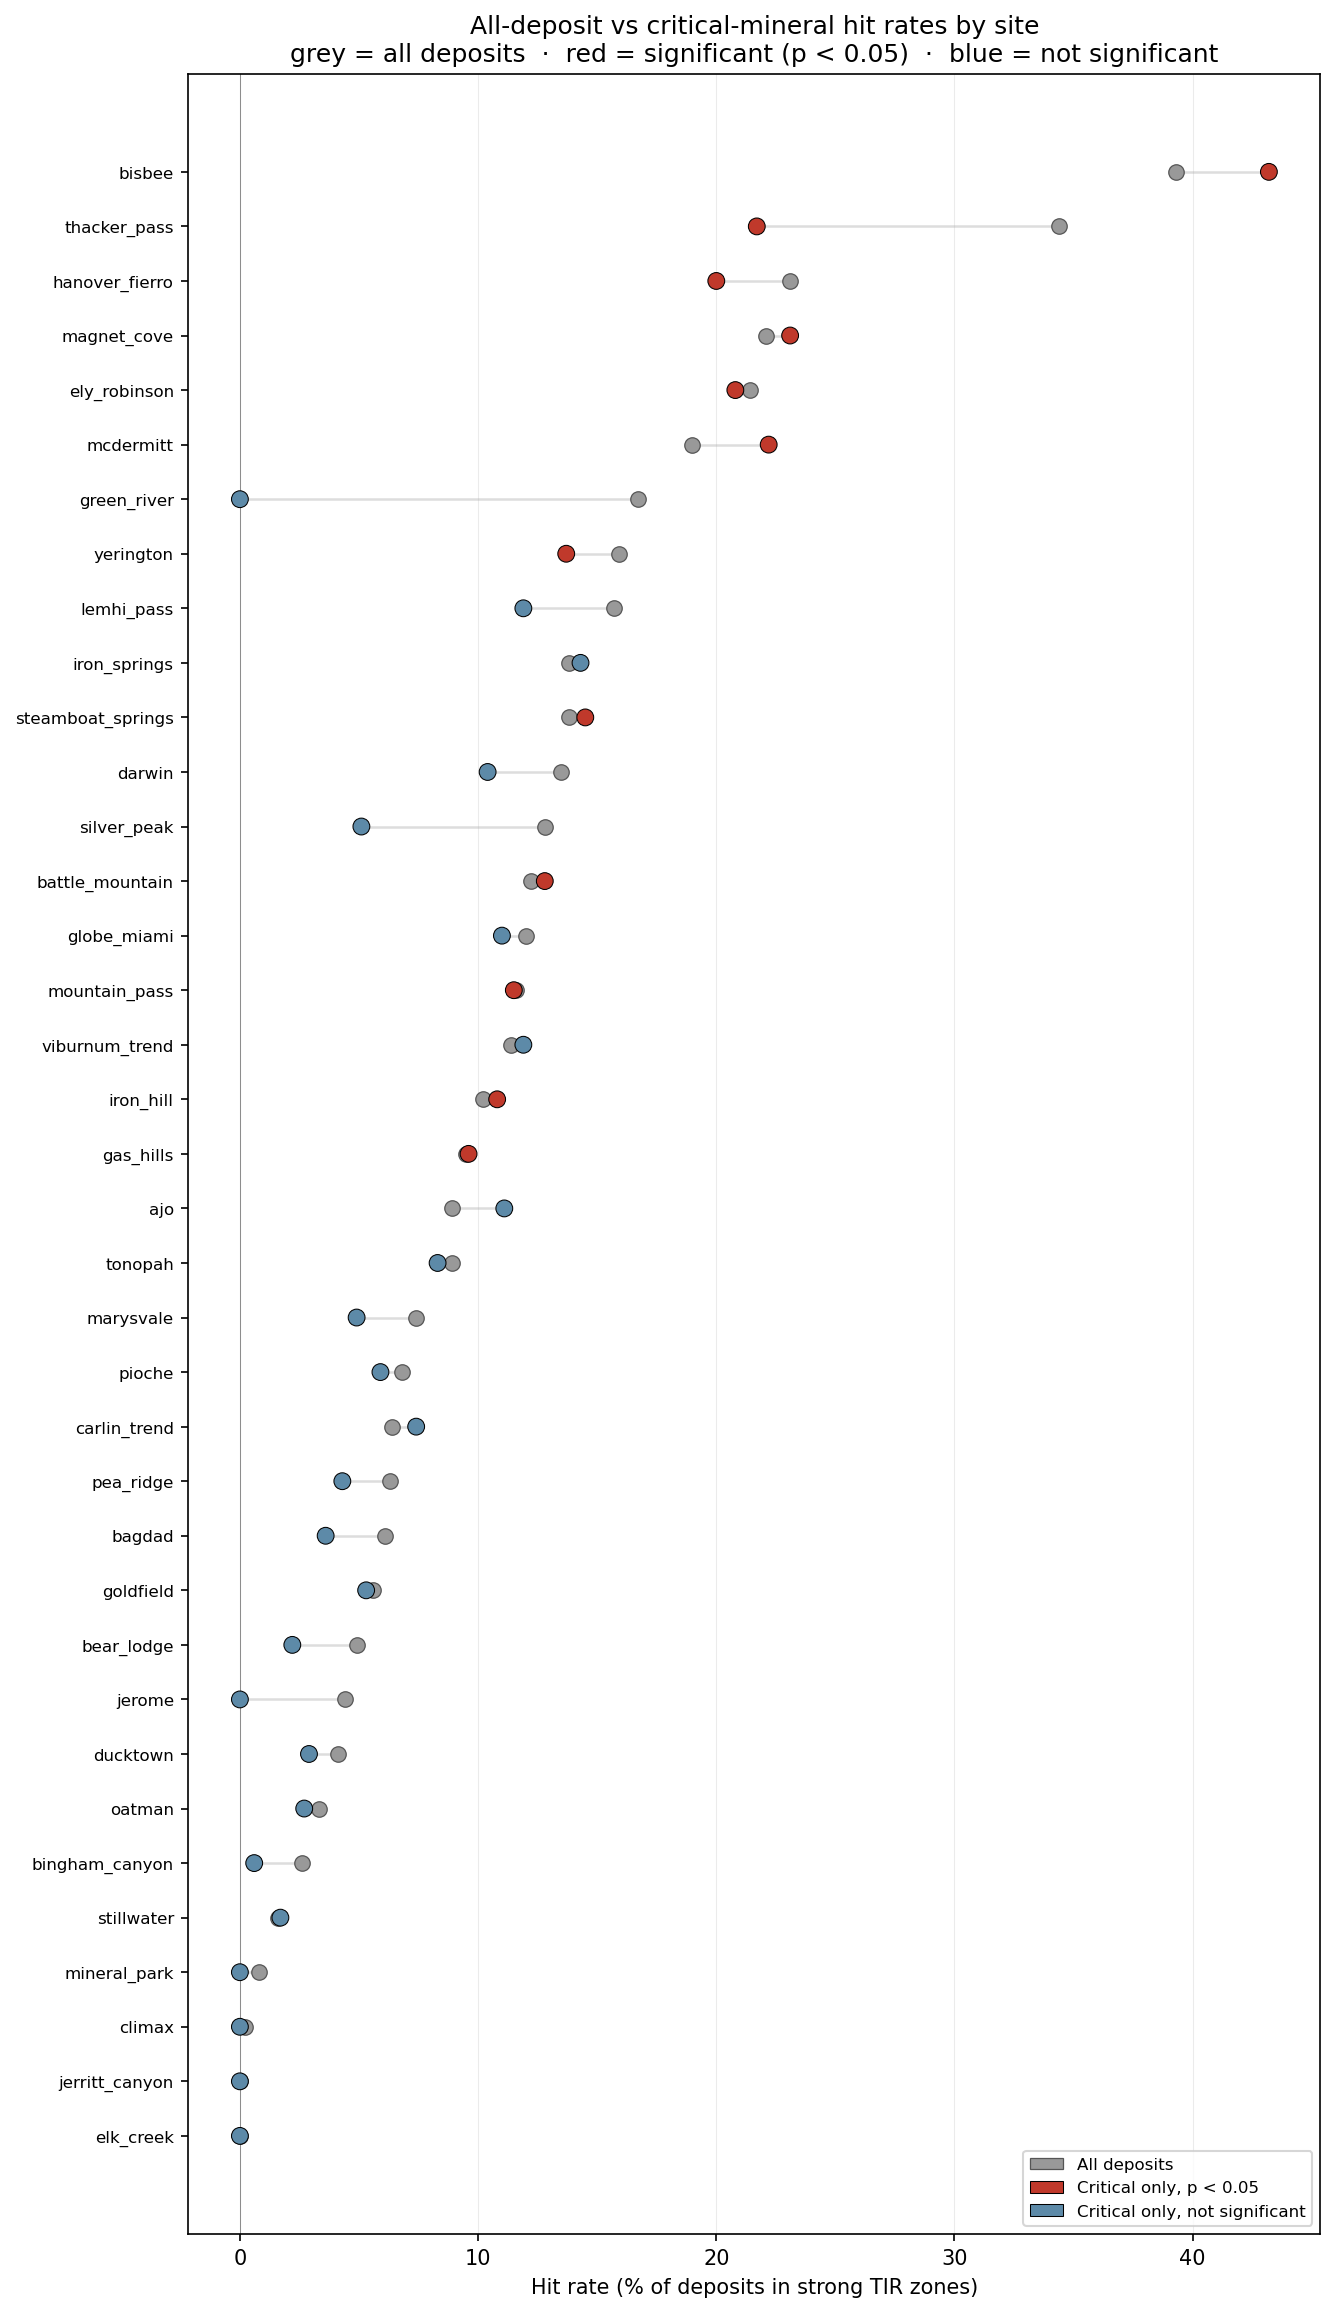
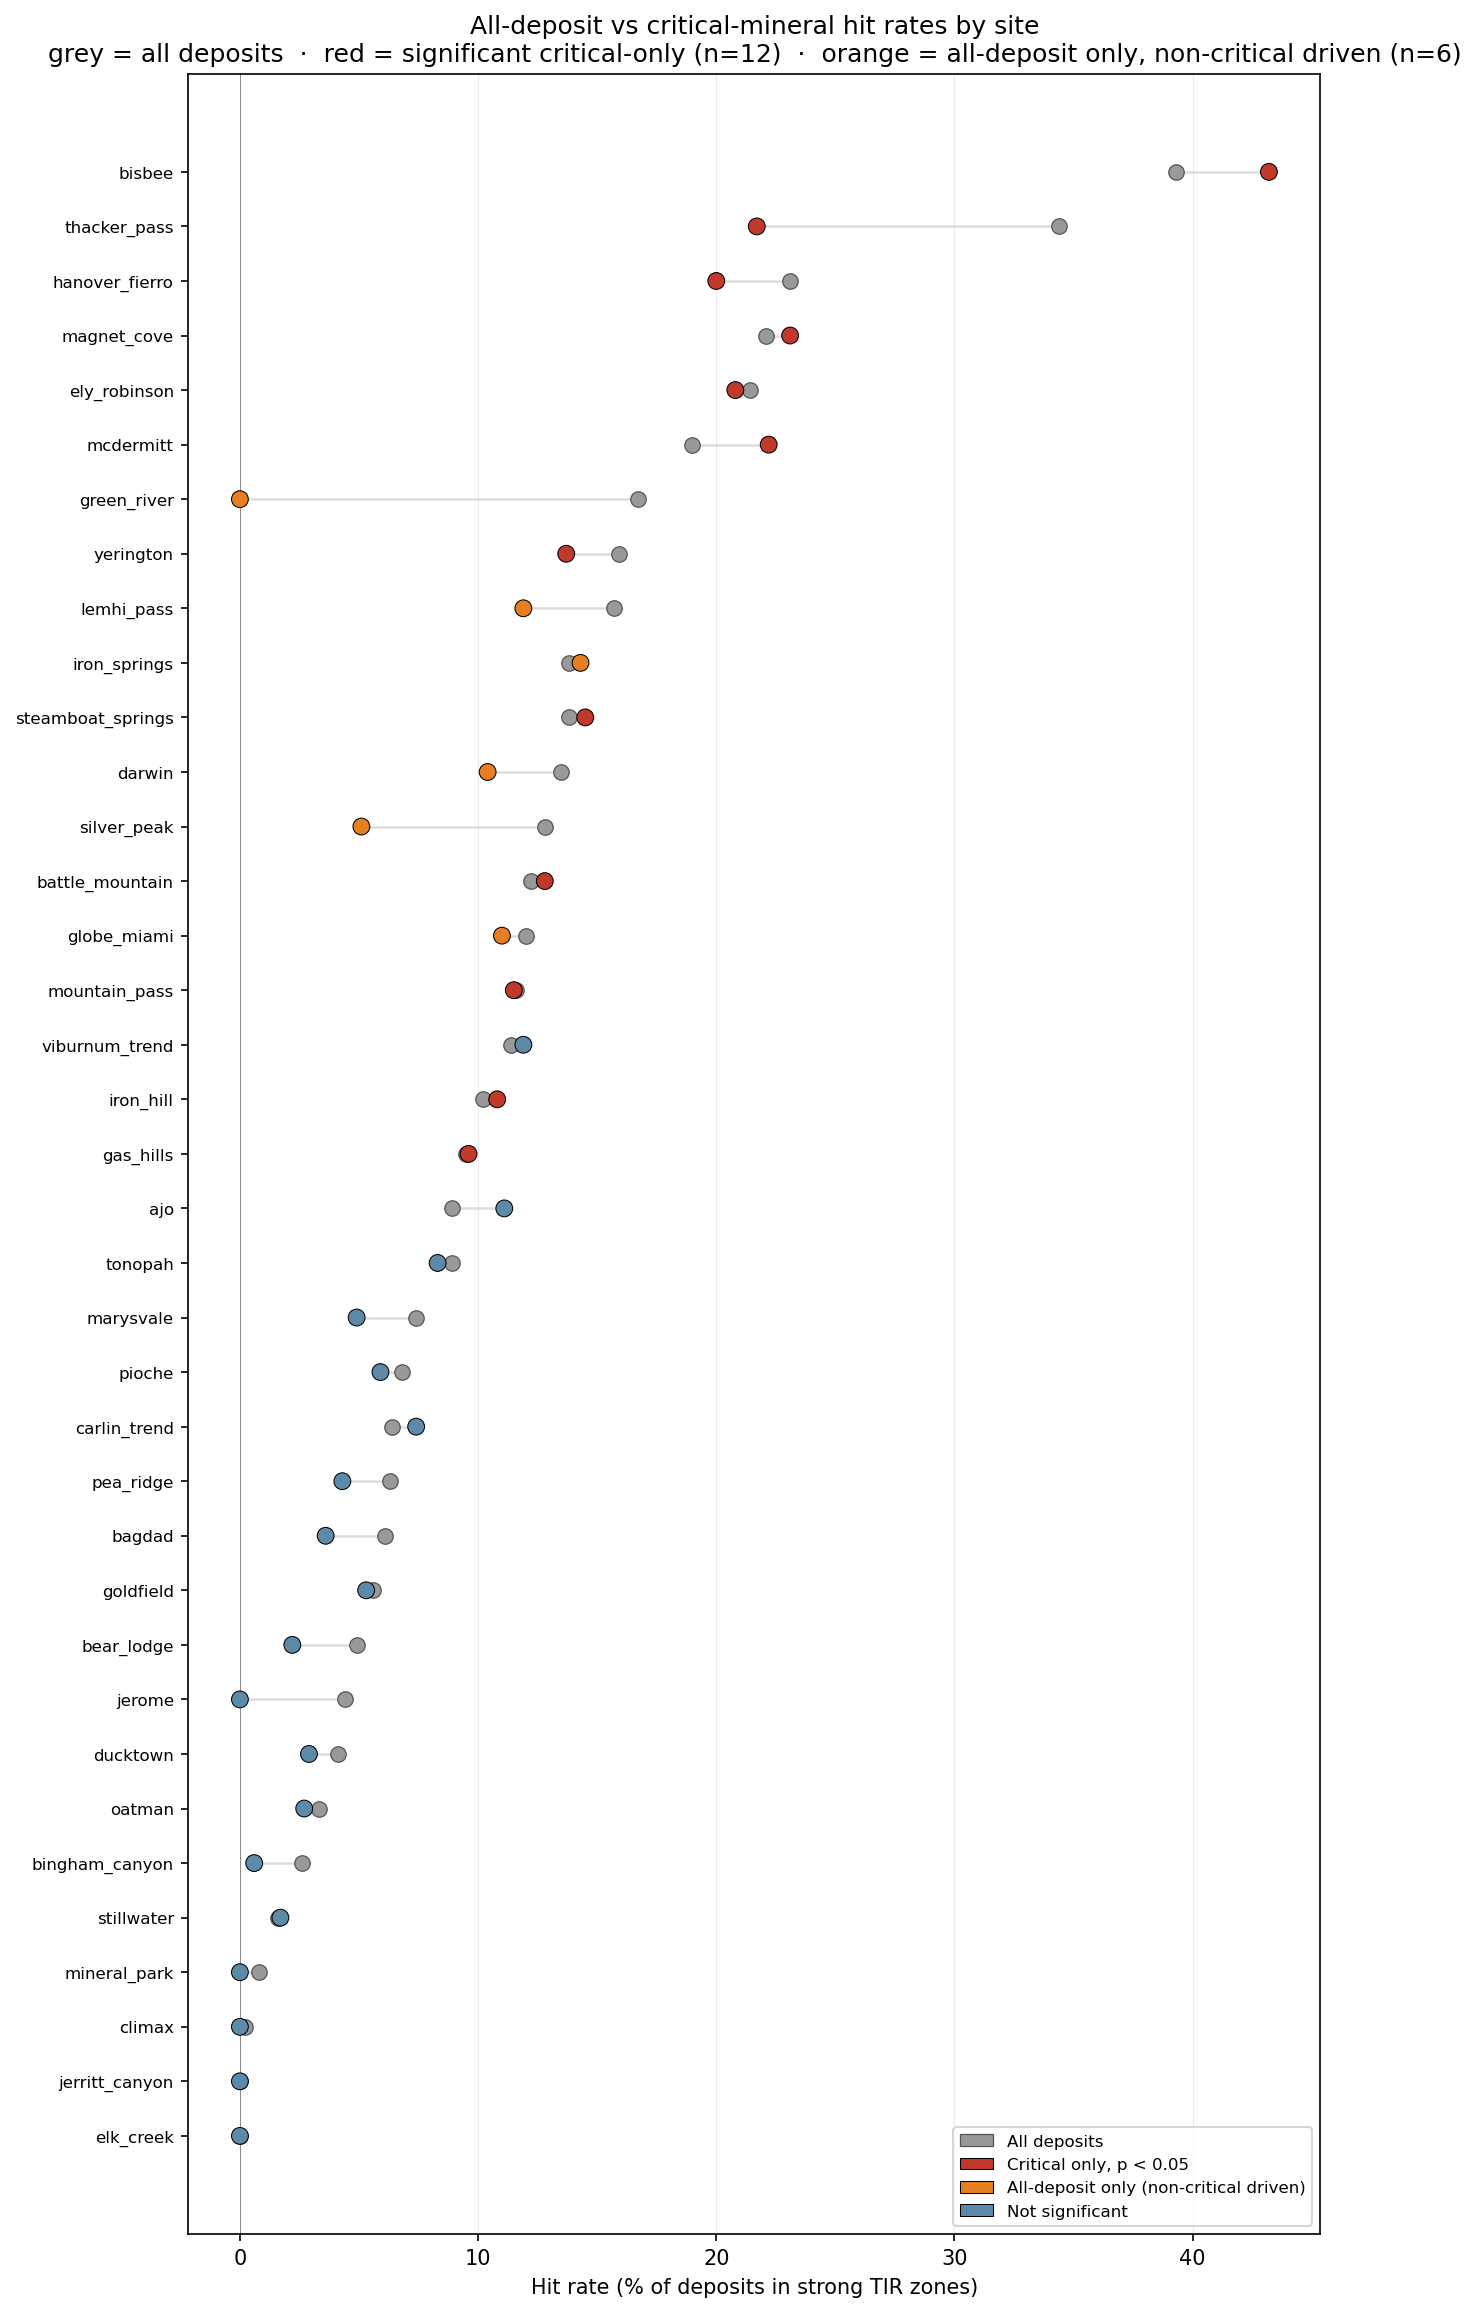
feat: match figure 07 color scheme to figure 06 (red/orange/blue-grey)
Critical-only dots now use:
  red    = significant on critical-only test (n=12)
  orange = significant on all-deposit test only, non-critical driven (n=6)
  blue-grey = not significant

Update title and legend to match. Update results.md caption accordingly.

diff --git a/src/critical_minerals_aster/synthesis.py b/src/critical_minerals_aster/synthesis.py
@@ -78,8 +78,16 @@ def save_paired_hitrate_figure(results_dir: Path, figures_dir: Path) -> Path | N
         edgecolors="#555555", linewidths=0.6,
     )
 
-    # Critical-only dots (coloured by significance)
-    crit_colors = ["#c0392b" if s else "#5d8aa8" for s in sig["sig_crit"]]
+    # Critical-only dots — red if critical-only significant, orange if all-deposit-only
+    # significant (non-critical driven), grey if not significant on either test.
+    def _crit_color(row):
+        if row["sig_crit"]:
+            return "#c0392b"   # red — significant on critical-only test
+        if row["sig_all"]:
+            return "#e67e22"   # orange — significant on all-deposit test only
+        return "#5d8aa8"       # blue-grey — not significant
+
+    crit_colors = [_crit_color(row) for _, row in sig.iterrows()]
     ax.scatter(
         sig["hr_crit_pct"], y,
         c=crit_colors, s=65, zorder=3, label="Critical minerals only",
@@ -89,9 +97,12 @@ def save_paired_hitrate_figure(results_dir: Path, figures_dir: Path) -> Path | N
     ax.set_yticks(y)
     ax.set_yticklabels(sig["site_id"], fontsize=8)
     ax.set_xlabel("Hit rate (% of deposits in strong TIR zones)")
+    n_sig_crit = int(sig["sig_crit"].sum())
+    n_sig_all_only = int((sig["sig_all"] & ~sig["sig_crit"]).sum())
     ax.set_title(
         "All-deposit vs critical-mineral hit rates by site\n"
-        "grey = all deposits  ·  red = significant (p < 0.05)  ·  blue = not significant"
+        f"grey = all deposits  ·  red = significant critical-only (n={n_sig_crit})"
+        f"  ·  orange = all-deposit only, non-critical driven (n={n_sig_all_only})"
     )
     ax.axvline(0, color="black", linewidth=0.5, alpha=0.4)
     ax.grid(axis="x", alpha=0.25, linewidth=0.5)
@@ -100,7 +111,8 @@ def save_paired_hitrate_figure(results_dir: Path, figures_dir: Path) -> Path | N
     legend_elements = [
         Patch(facecolor="#999999", edgecolor="#555555", linewidth=0.6, label="All deposits"),
         Patch(facecolor="#c0392b", edgecolor="black", linewidth=0.5, label="Critical only, p < 0.05"),
-        Patch(facecolor="#5d8aa8", edgecolor="black", linewidth=0.5, label="Critical only, not significant"),
+        Patch(facecolor="#e67e22", edgecolor="black", linewidth=0.5, label="All-deposit only (non-critical driven)"),
+        Patch(facecolor="#5d8aa8", edgecolor="black", linewidth=0.5, label="Not significant"),
     ]
     ax.legend(handles=legend_elements, fontsize=8, loc="lower right")
 

diff --git a/docs/results.md b/docs/results.md
@@ -78,7 +78,7 @@ Non-critical deposits (stone, sand, gravel, aggregate) have a **higher** pooled 
 
 ![Paired dot plot: all-deposits hit rate (grey) vs critical-only hit rate (red = significant, blue = not significant) per site. Sites where the grey dot is far right of the coloured dot have aggregate inflation. Green River is the clearest case: all-deposits hits ~17% but critical-only is 0%.](../figures/07_hitrate_comparison.png)
 
-*Figure 07 — All-deposit vs critical-mineral hit rate per site. A long rightward grey tail indicates aggregate inflation. Green River, Silver Peak, and Darwin show the largest gaps. Steamboat Springs is one of the few sites where all-deposit and critical-only rates are nearly equal.*
+*Figure 07 — All-deposit (grey) vs critical-mineral hit rate (coloured) per site, sorted by all-deposit rate. Red = significant on critical-only test (n=12). Orange = significant on all-deposit test only, non-critical driven (n=6). Blue-grey = not significant. A long rightward grey tail with an orange or blue critical dot indicates aggregate inflation — Green River and Silver Peak are the clearest cases. Sites where red and grey dots nearly overlap (Steamboat Springs, Ely-Robinson) have little non-critical inflation.*
 
 **Green River, WY** is the clearest example: nearly all MRDS records in the footprint are non-critical (aggregate, trona, oil shale). The site is binomially significant on all-deposit counts (p = 0.041) but has zero critical-mineral hits.
 
